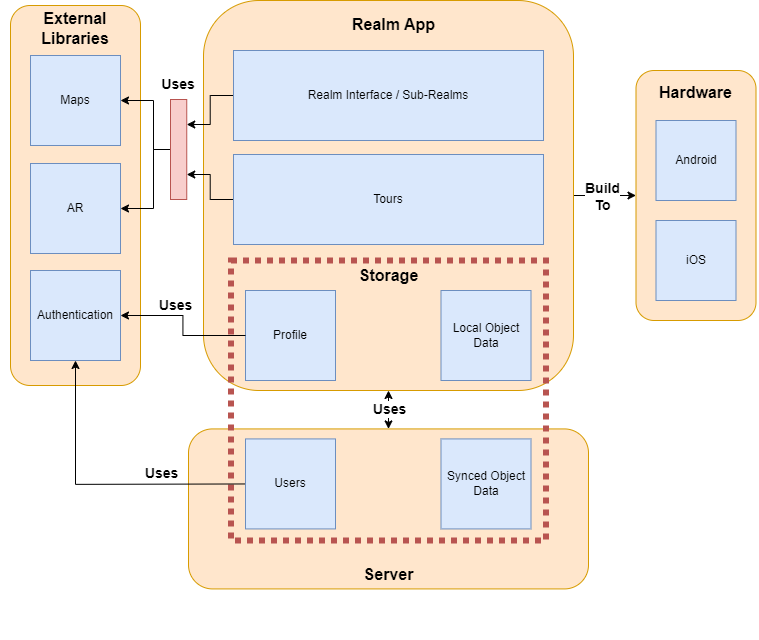
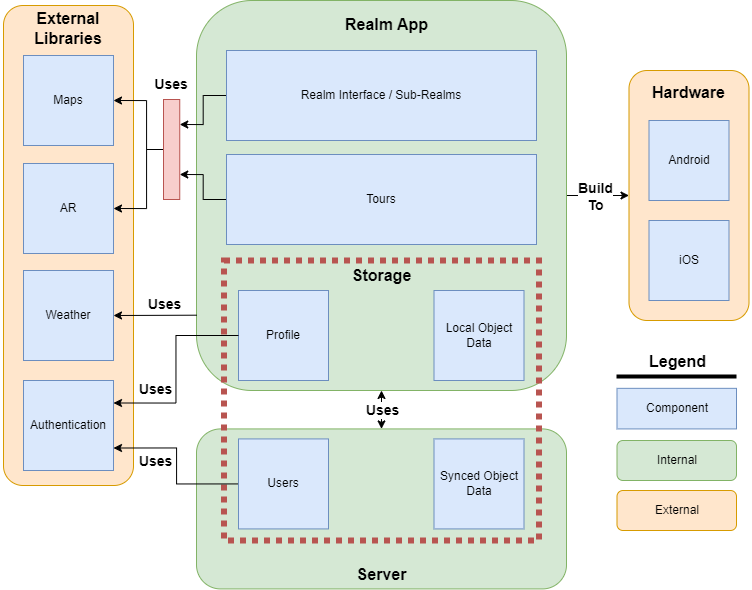
Added row to FMEA table and updated system boundaries

diff --git a/docs/HazardAnalysis/HazardAnalysis.tex b/docs/HazardAnalysis/HazardAnalysis.tex
@@ -70,9 +70,15 @@ Certain losses that could be incurred because of hazards are loss of privacy, in
 \section{System Boundaries and Components}
 
 \begin{center}
-    \includegraphics[scale=0.4]{sys_bound_comp.png}\\
+    \includegraphics[scale=0.5]{sys_bound_comp.png} \\
     \textbf{Figure 1: System Boundaries and Components}
 \end{center}
+
+There are two types of sub-systems that make up the project:
+\begin{itemize}
+    \item \emph{Internal}: These are sub-systems that are designed and implemented by us for this project.
+    \item \emph{External}: These are sub-systems that are created by a third-party.
+\end{itemize}
 
 \begin{enumerate}[label=\textbf{\arabic*.}]
     \item \textbf{Realm App}
@@ -80,22 +86,26 @@ Certain losses that could be incurred because of hazards are loss of privacy, in
         \item Realm Interface / Sub-Realms
         \item Tours
     \end{enumerate}
+    \textbf{On Failure:} \emph{See \ref{ssub:fmea}}
+    \item \textbf{Cloud}
+    \begin{enumerate}
+        \item Accounts
+        \item Synced Object Data
+    \end{enumerate}
+    \textbf{On Failure:} \emph{See \ref{ssub:fmea}}
     \item \textbf{External Libraries}
     \begin{enumerate}
         \item Maps
         \item AR
         \item Authentication
     \end{enumerate}
-    \item \textbf{Cloud}
-    \begin{enumerate}
-        \item Accounts
-        \item Synced Object Data
-    \end{enumerate}
+    \textbf{On Failure:} A message will be displayed to inform the user that the app can't connect to a specific service.
     \item \textbf{Hardware}
     \begin{enumerate}
         \item Android Devices
         \item iOS Devices
     \end{enumerate}
+    \textbf{On Failure:} The user will get information from the hardware device itself.
 \end{enumerate}
 
 \section{Critical Assumptions}
@@ -131,6 +141,7 @@ Hazards resulting from the failure of the following components will not be consi
 
 
 \subsection{Failure Mode and Effects Analysis Table}
+\label{ssub:fmea}
 
 \newgeometry{left=0.2in,right=0.2in,top=0.2in,bottom=0.2in}
 \begin{landscape}
@@ -154,7 +165,9 @@ Hazards resulting from the failure of the following components will not be consi
         \hline
         Object Instance Storage & Database becomes corrupted & Users lose access to their (and other's) AR object instances & Faulty storage devices on server, Bugs in database management software & Automated periodic database testing & Implement a mechanism to restore the database from a backup if necessary, based on automated database testing & ROR-3, ROR-4 & H2-1 \\
         \hline
-        Viewing AR objects accurately in the Realm screen & Location access is disabled & User is unable to accurately view object instances in their surroundings & Permission for location denied by mobile device, Location access disabled by the user, Bugs in software component synchronizing object and device location with each other & Having periodic updates of device location & Prompting user to grant location access or transitioning to an offline view of the Realm screen & ACR-1, ACR-2 & H3-1 \\
+        Viewing AR objects in the Realm screen & User collides with a real-world object & User is potentially injured, disoriented, and/or damages a real-world object & User is distracted by AR object(s) in the Realm screen and fails to see a real-world hazard right in front of them & Mobile sensors to keep track of user distance from real-world objects & A warning will be displayed through the app when a user is close to an object and is on a collision course & \ref{SAR-1}, \ref{SAR-5} & H3-1 \\
+        & & & & & & & \\
+        & Location access is disabled & User is unable to accurately view object instances in their surroundings & Permission for location denied by mobile device, Location access disabled by the user, Bugs in software component synchronizing object and device location with each other & Having periodic updates of device location & Prompting user to grant location access or transitioning to an offline view of the Realm screen & ACR-1, ACR-2 & H3-2 \\
         \hline
         Navigating to AR object cluster & AR objects within selected cluster are deleted by the owner during navigation & User may arrive at destination with no AR objects present, Bugs in navigation software may cause app crashes & All AR objects within the targeted cluster are deleted by respective owners & Keeping track of AR object cluster count & Before starting navigation, check for existence of AR object cluster. Notify user about objects being deleted by owners. Provide option to start navigation back to original starting point & ACR-3, ROR-1 & H4-1 \\
         & Location access is disabled & System is unable to present current user location, system is unable to display next instruction & Location access disabled by the user or device system & Having periodic updates of device location & Prompt user to grant location access to continue navigation & ACR-2 & H4-2 \\
@@ -177,7 +190,6 @@ Hazards resulting from the failure of the following components will not be consi
     \item \label{SR-7} The system shall provide fallback modes for rendering AR objects on low-performance devices to ensure accessibility for all users.
     \item \label{SR-8} The system shall allow users to customize rendering settings (e.g., brightness, effects) to minimize discomfort or health risks associated with viewing objects.
     \item \label{SR-9} The system shall display indicators to alert users when rendering might cause discomfort (e.g., rapid movement or flashing effects).
-
 \end{enumerate}
 \subsection{Definitions}
 
@@ -192,6 +204,7 @@ Hazards resulting from the failure of the following components will not be consi
     \item \label{SAR-2} The system shall have warnings for bright flashes or loud noises. \\
     \item \label{SAR-3} The system should have the option to disable bright lights and loud noises. \\
     \item \label{SAR-4} The system shall be designed to operate with minimal battery usage, ensuring that its consumption does not exceed the average battery usage of comparable applications within the same category. \\
+    \item \label{SAR-5} The system shall give ample warning to users if they are close to a real-world hazard and on track to collide with it. \\
 \end{enumerate}
 
 \subsection{Security Requirements}
